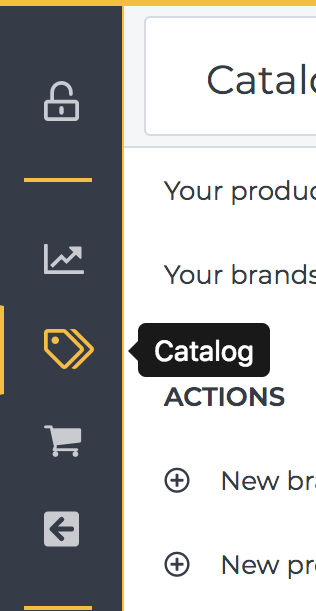
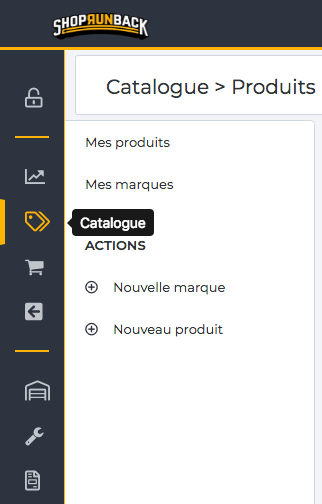
french image, plus remove unused link

diff --git a/source/includes/dashboard/utilisation.md b/source/includes/dashboard/utilisation.md
@@ -58,7 +58,6 @@ Une fois la commande créée, vous pouvez rajouter des articles.
 
 À partir du moment où vous avez ajouté un article, une nouvelle action est possible : Créer le retour.
 
-####TODO image avec traduction FR
 ![Créer retour](images/dashboard/create_return.png)
 <aside class="warning">
   Attention: Une fois le retour créé, vous ne pourrez plus supprimer la commande.
@@ -87,9 +86,9 @@ L'onglet *Client* regroupe les informations que vous avez renseignées sur le cl
 
 L'onglet *Articles* regroupe les articles retournés par votre client avec leur motif de retour respectif.
 
-L'onglet *Notifications* vous permet de voir les notifications qui sont envoyées au client. Vous avez la possibilité de choisir quelle notification sera envoyée via vos paramètres de configuration (TODO lien vers configuration/notifications)
+L'onglet *Notifications* vous permet de voir les notifications qui sont envoyées au client. Vous avez la possibilité de choisir quelle notification sera envoyée via vos paramètres de configuration (**TODO** lien vers configuration/notifications)
 
-Les autres onglets vous permettent de voir plus d'informations sur votre retour, comme les modes de retours disponibles (Simulation d'itinéraires), l'historique des appels API (Logs appels API , voir TODO (lien)[apicalls]).
+Les autres onglets vous permettent de voir plus d'informations sur votre retour, comme les modes de retours disponibles (Simulation d'itinéraires), l'historique des appels API (Logs appels API , voir **TODO** (lien)[apicalls]).
 
 ![Actions retour](images/dashboard/shipback_actions.png)
 

diff --git a/source/dashboard.html.md b/source/dashboard.html.md
@@ -6,7 +6,6 @@ language_tabs:
 
 toc_footers:
   - <a href='http://dashboard.shoprunback.com'>Sign Up for a Developer Key</a>
-  - <a href='https://s3.amazonaws.com/srb-public/prestashop/shoprunback-prestashop.zip'>Download the module</a>
 
 includes:
   - dashboard/introduction
